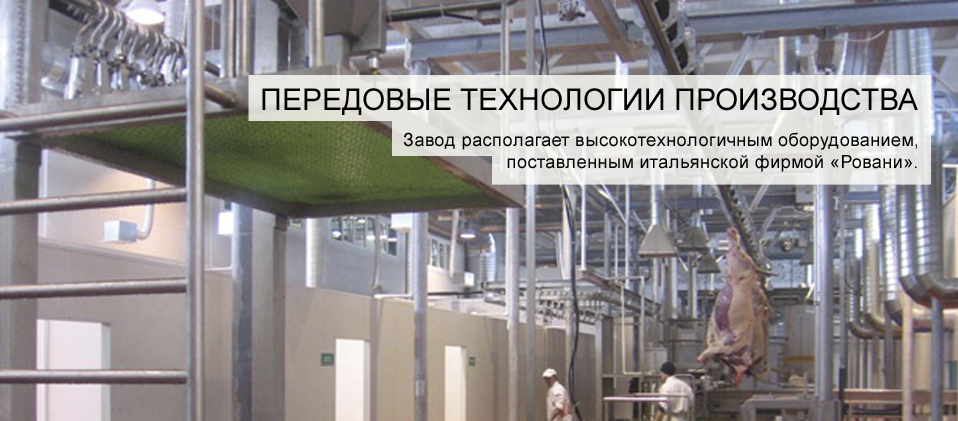
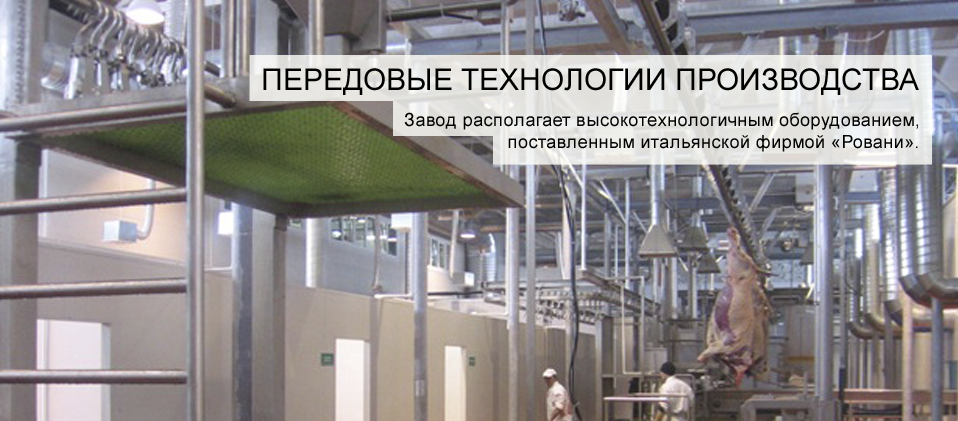
last changes

Changed region(s): [[0.2422, 0.1235, 0.999, 0.4632]]

diff --git a/app/assets/stylesheets/welcome.css.scss b/app/assets/stylesheets/welcome.css.scss
@@ -144,11 +144,11 @@ body {
           background: linear-gradient(to bottom, #f8f6f5 0%,#d7d2ce 100%);
           filter: progid:DXImageTransform.Microsoft.gradient( startColorstr='#f8f6f5', endColorstr='#d7d2ce',GradientType=0 );
           p {
-            color: #3A060A;
+            color: #212121;
             font-size: 15px;
             font-style: italic;
             margin-left: 15px;
-            margin-top: 15px;
+            margin-top: 25px;
             width: 234px;
             line-height: 24px;
             font-size: 14px;
@@ -293,7 +293,7 @@ body {
     /*width:874px;*/
     width:100%;
     .copyrights {
-      width:414px;
+      width:420px;
       height:144px;
       float:left;
 
